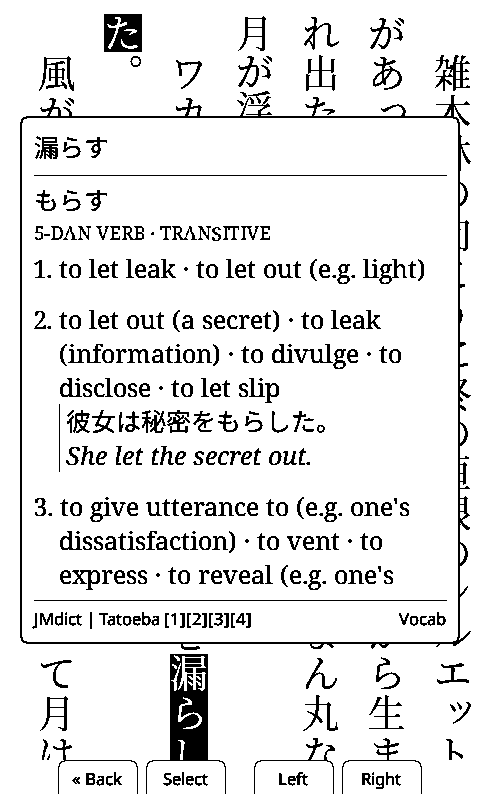
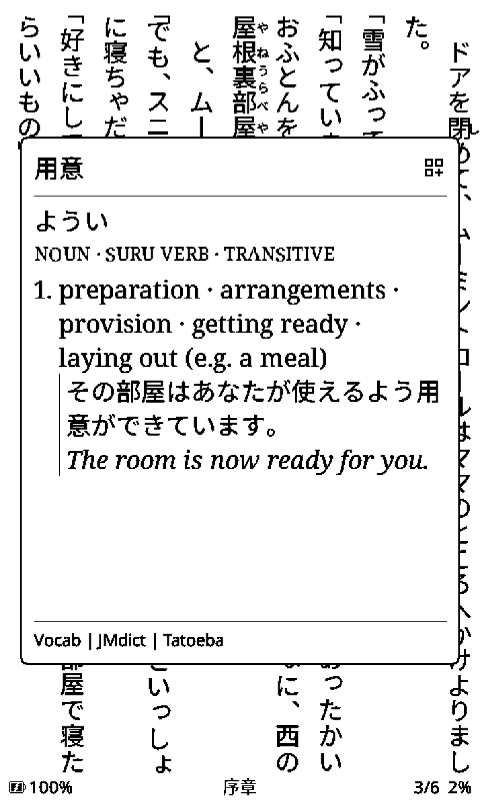
docs: new lookup panel screenshots, and how to save on touch vs button devices
README: the word lookup screenshot (top row and the Dictionary section) now
shows the new panel -- the save button and Vocab | JMdict | Tatoeba footer --
on a page of たのしいムーミン一家.

User guide: the sentence-mining screenshot is the same page with the save
button circled, and the steps say which devices tap + (X4 Pro, Papermono,
Sticky) and which press Select (X4, X3, X4 Classic, which draw no +).

diff --git a/USER_GUIDE.md b/USER_GUIDE.md
@@ -958,10 +958,13 @@ The saved words are written as a CSV file made to be imported into Anki: it carr
 importer reads, so the import needs no setup (see **Importing into Anki** below). Being plain CSV, it also opens in
 a spreadsheet or another flashcard app, but Anki is what it is laid out for.
 
-- **With buttons:** open a definition and press **Select**.
-- **On a touch device:** tap the **+** in the top-right corner of the definition panel.
+To save the word on screen, open its definition and:
 
-<p align="center"><img src="docs/images/screenshots/sentence-mining.png" width="260" alt="A definition panel over a page of 1984, with the save button in its top-right corner circled"></p>
+- **On a touch device** (X4 Pro, Papermono, Sticky): tap the **+** in the top-right corner of the definition panel,
+  circled below.
+- **On a button device** (X4, X3, X4 Classic): press **Select**. The **+** is not shown there, since the button does the same.
+
+<p align="center"><img src="docs/images/screenshots/sentence-mining.png" width="260" alt="A definition panel for 用意 over a vertical page of たのしいムーミン一家, with the save button in its top-right corner circled"></p>
 
 The footer shows **Saved** (or **Could not save** if the SD card refused the write) until you move to another word,
 page or entry.

diff --git a/README.md b/README.md
@@ -61,7 +61,7 @@ To import, open the file in Anki with **File → Import**. The first lines of th
 
 A sentence cut off by the end of the page is finished from the next page. The date comes from the device clock, which sets itself whenever the device connects to Wi-Fi. On devices without a clock chip (the X4) a restart loses the time, so the date can lag until the next Wi-Fi connection.
 
-<p align="center"><img src="docs/images/screenshots/word-lookup.png" width="260" alt="Word lookup panel over a vertical page: 漏らした resolved to 漏らす, with its reading, part of speech, definitions and an example sentence"></p>
+<p align="center"><img src="docs/images/screenshots/word-lookup.png" width="260" alt="Word lookup panel over a vertical page of たのしいムーミン一家: 用意 with its reading, part of speech, definition and an example sentence, the save button in the top-right corner and Vocab | JMdict | Tatoeba in the footer"></p>
 
 ### Page translation
 
